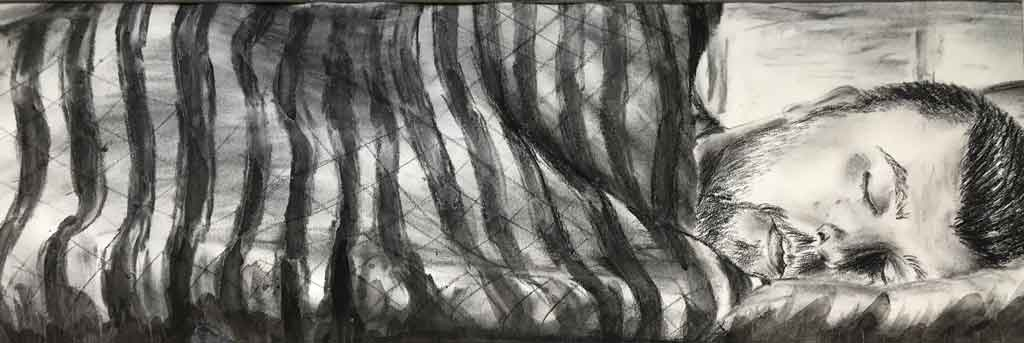
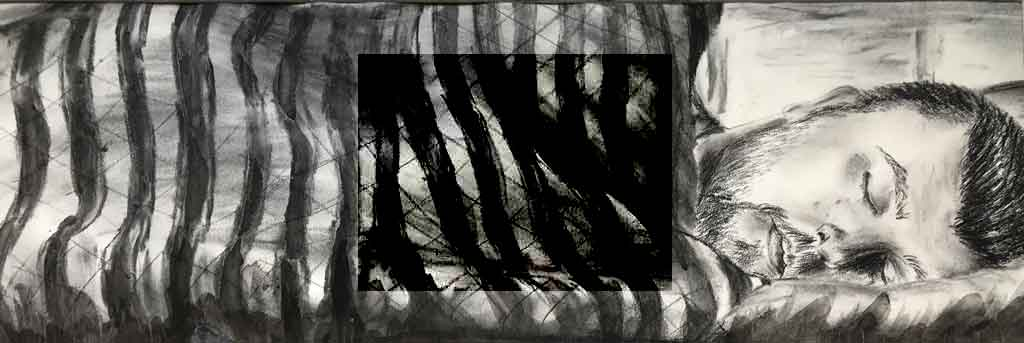
updated image
changed image orientation and added darker box for text

Changed region(s): [[0.3438, 0.1458, 0.6562, 0.8746]]

diff --git a/styles.css b/styles.css
@@ -16,10 +16,12 @@ h2 {
   display: flex;
   flex-direction: column;
   align-items: center;
-  justify-content: center; 
+  justify-content: center;
   height: 343px;
+  width: 1024px;
   background-image: url(project-one/assets/drawing.jpg);
   background-repeat: no-repeat;
+  background-position: center;
 }
 
 .content {
